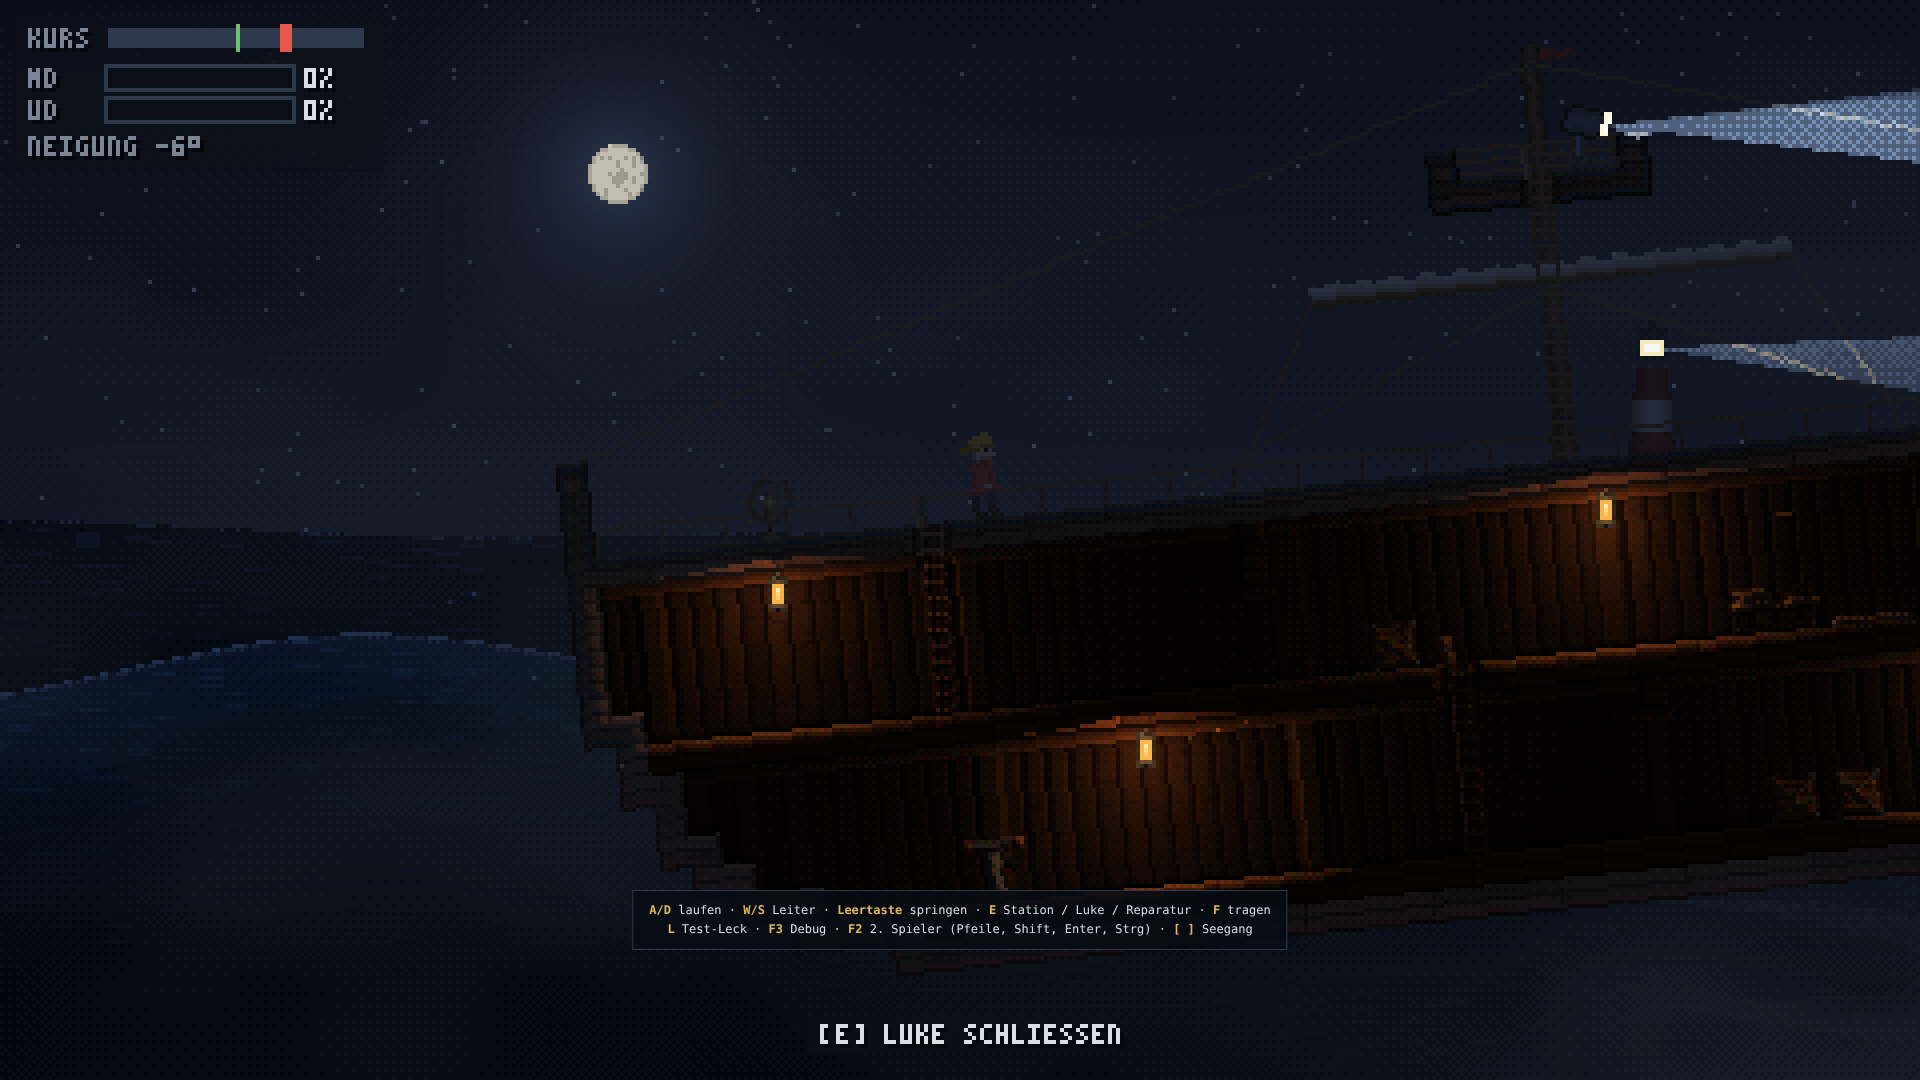
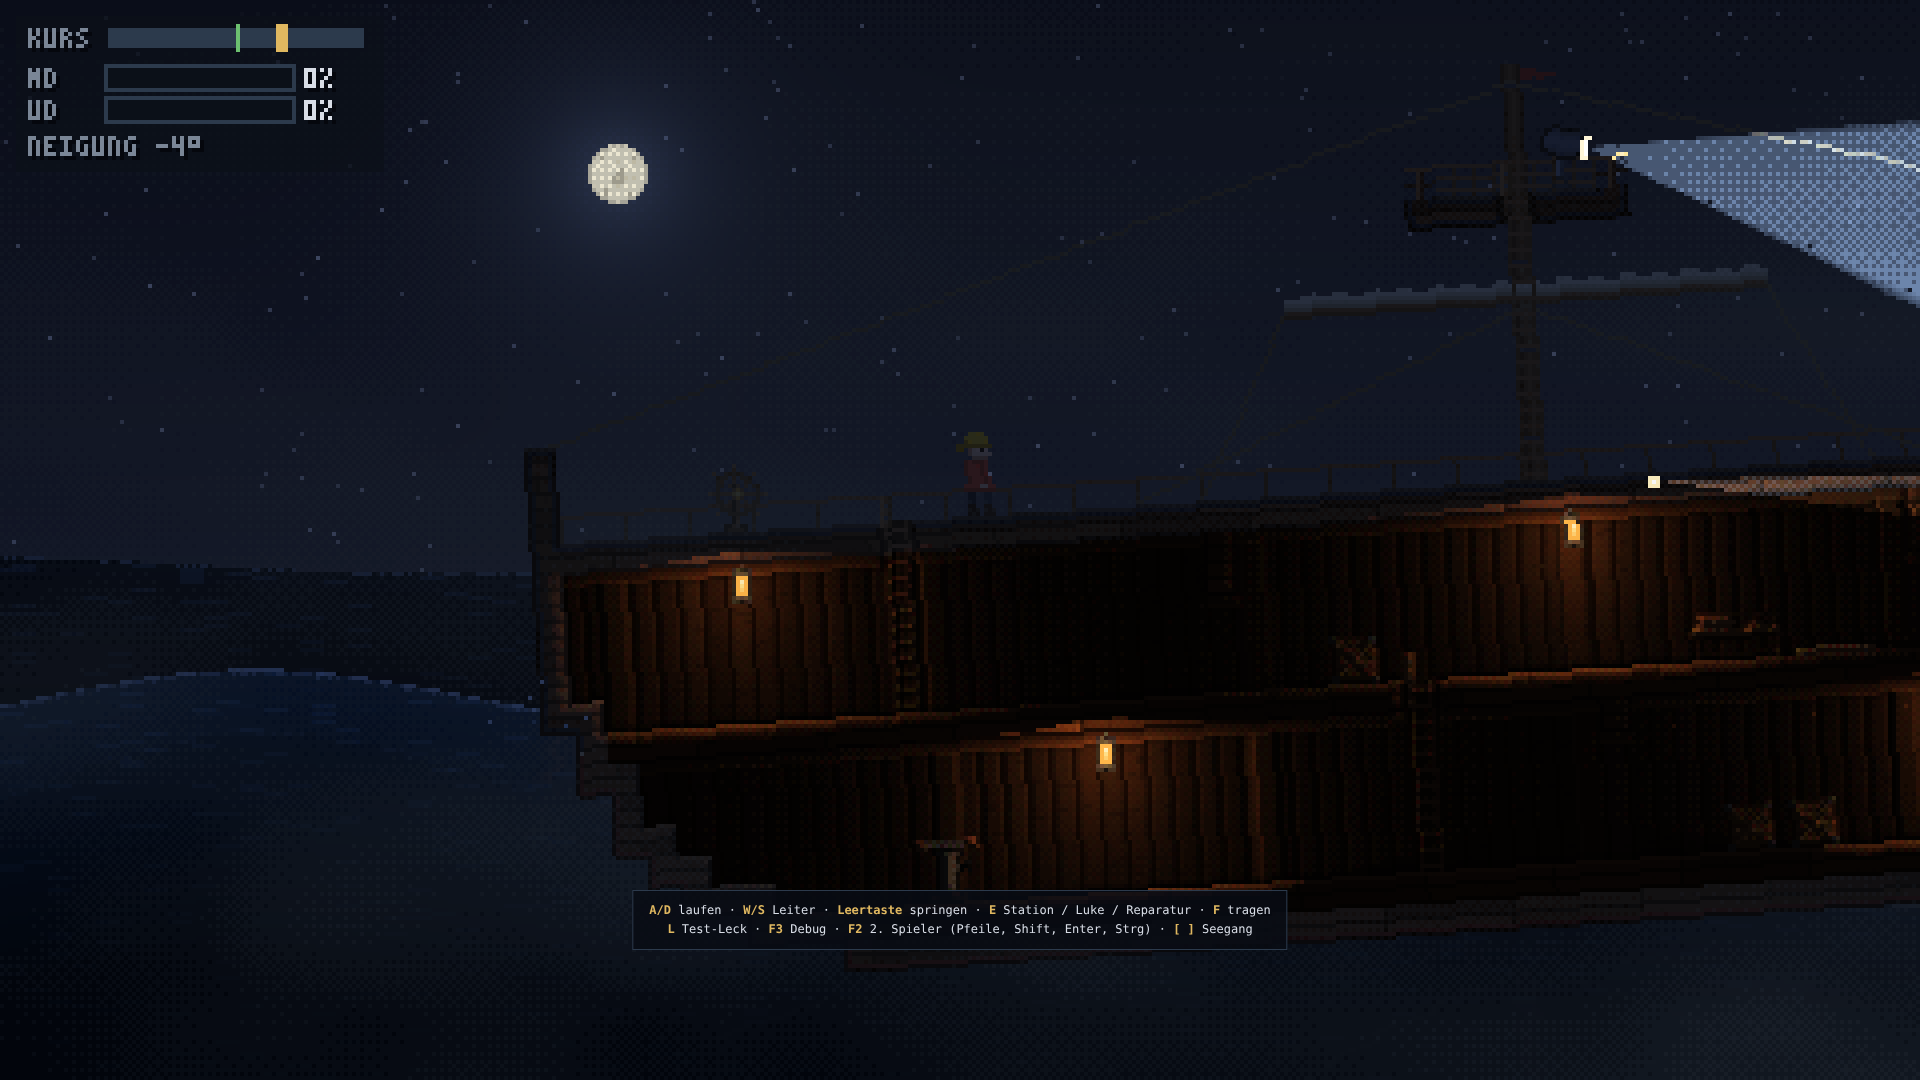
Railing tiles, leak jet and bubbles, buffer debug view, browser verification
- '|' railing tiles collide but do not occlude light (crow's nest posts
  no longer swallow the searchlight beam)
- leak water squirts in as a jet (or bubbles when submerged), unlit water
  surface glint keeps flooding readable in dark holds
- F7 cycles albedo / normal / light / mask buffer views
- scripts/verify-browser.mjs: scenes, buffer views, touch on an iPad
  viewport, FPS per quality level, WebKit when installed
- client unit tests for visibility polygons, pixel layout, input latching

Claude-Session: https://claude.ai/code/session_012Hak5DpWGinFi5foozbzFZ

diff --git a/client/src/render/ShipView.ts b/client/src/render/ShipView.ts
@@ -180,8 +180,8 @@ export class ShipView {
       y: 0,
       color: [0.82, 0.92, 1.0],
       intensity: 2.6,
-      radius: 470,
-      height: 40,
+      radius: 480,
+      height: 110,
       cone: { direction: 0, half: 0.19, soft: 0.025 },
       scatter: 1.6,
       occluded: true,
@@ -456,16 +456,29 @@ export class ShipView {
       s.setFrame(frameOf(this.assets.props, name));
       if (leak.active && leak.inflow > 0) {
         // water jet + drips into the hull, in ship space with the apparent gravity
-        const n = Math.min(6, leak.inflow * 40 * dt * 10);
+        const n = Math.min(8, Math.round(leak.inflow * 140 * dt));
         const cx = ox + lp.tx * 8 + 4 + lp.inward.x * 3;
         const cy = oy + lp.ty * 8 + 4 + lp.inward.y * 3;
         const g = state.ship.gravity;
         const floorY = this.floorBelow(lp.tx + lp.inward.x, lp.ty + lp.inward.y, state);
-        for (let i = 0; i < n; i++) {
-          if (Math.random() > 0.7) continue;
-          const spd = 20 + leak.inflow * 90 * Math.random();
-          const spread = (Math.random() - 0.5) * 18;
-          this.leakParticles.spawn(cx, cy + (Math.random() - 0.5) * 4, lp.inward.x * spd + spread * Math.abs(lp.inward.y), lp.inward.y * spd + spread * Math.abs(lp.inward.x) - 10 * Math.random(), 0.5 + Math.random() * 0.6, Math.random() > 0.3 ? 0x9cc8e0 : 0xe0f0ff, g.x * PPM * 0.6, g.y * PPM * 0.6, 0.6, floorY);
+        if (floorY < cy) {
+          // the leak is under water: bubbles rise to the surface instead of a jet
+          if (Math.random() < leak.inflow * 30 * dt) {
+            for (let i = 0; i < 2; i++) {
+              this.leakParticles.spawn(cx + lp.inward.x * 2 + (Math.random() - 0.5) * 3, cy, lp.inward.x * 8 + (Math.random() - 0.5) * 6, -10, 3, 0xc8e8f4, -g.x * PPM * 0.05, -g.y * PPM * 0.12, 1.5, floorY + 1);
+            }
+          }
+          continue;
+        }
+        // pressurised jet: water squirts inwards and slightly upwards, then falls
+        for (let i = 0; i < n + 2; i++) {
+          const spd = 25 + leak.inflow * 110 * Math.random();
+          const up = 15 + Math.random() * 45;
+          const side = (Math.random() - 0.5) * 16;
+          const vx = lp.inward.x * spd + side * Math.abs(lp.inward.y);
+          const vy = lp.inward.y * spd + side * Math.abs(lp.inward.x) - up * Math.abs(lp.inward.x);
+          const color = Math.random() > 0.35 ? 0x9cc8e0 : 0xe8f6ff;
+          this.leakParticles.spawn(cx, cy + (Math.random() - 0.5) * 3, vx, vy, 0.6 + Math.random() * 0.7, color, g.x * PPM * 0.6, g.y * PPM * 0.6, 0.5, floorY);
         }
       }
     }

diff --git a/shared/src/layout/parseLayout.ts b/shared/src/layout/parseLayout.ts
@@ -106,6 +106,8 @@ export interface ShipLayout {
   origin: Vec2;
   tiles: Uint8Array;
   ladderMask: Uint8Array;
+  /** Solid tiles that are railings: they collide but do not occlude light. */
+  railMask: Uint8Array;
   /** Compartment id per tile, -1 if none. */
   compartmentOf: Int16Array;
   /** Merged solid rectangles (hatches excluded). */
@@ -146,6 +148,7 @@ export function parseLayout(map: readonly string[], options: ParseOptions): Ship
   const tileSize = options.tileSize ?? TILE_SIZE;
   const tiles = new Uint8Array(width * height);
   const ladderMask = new Uint8Array(width * height);
+  const railMask = new Uint8Array(width * height);
   const markers: MarkerDef[] = [];
   const idx = (x: number, y: number) => y * width + x;
   const charAt = (x: number, y: number) => map[y]?.[x] ?? ' ';
@@ -155,10 +158,11 @@ export function parseLayout(map: readonly string[], options: ParseOptions): Ship
     for (let x = 0; x < width; x++) {
       const c = charAt(x, y);
       const i = idx(x, y);
-      if (c === '#' || c === 'x') tiles[i] = TileKind.Solid;
+      if (c === '#' || c === 'x' || c === '|') tiles[i] = TileKind.Solid;
       else if (c === '=') tiles[i] = TileKind.Hatch;
       else tiles[i] = TileKind.Exterior; // refined by the flood fill below
       if (c === 'H') ladderMask[i] = 1;
+      if (c === '|') railMask[i] = 1;
       const marker = MARKERS[c];
       if (marker) markers.push({ type: marker, tx: x, ty: y });
     }
@@ -290,6 +294,7 @@ export function parseLayout(map: readonly string[], options: ParseOptions): Ship
 
   const isSolid = (x: number, y: number) =>
     x >= 0 && y >= 0 && x < width && y < height && tiles[idx(x, y)] === TileKind.Solid;
+  const isOccluder = (x: number, y: number) => isSolid(x, y) && !railMask[idx(x, y)];
 
   return {
     width,
@@ -298,9 +303,10 @@ export function parseLayout(map: readonly string[], options: ParseOptions): Ship
     origin: { x: options.origin.x, y: options.origin.y },
     tiles,
     ladderMask,
+    railMask,
     compartmentOf,
     solidRects: mergeSolidRects(width, height, isSolid),
-    occluders: buildOccluders(width, height, isSolid),
+    occluders: buildOccluders(width, height, isOccluder),
     ladders,
     hatches,
     compartments,

diff --git a/client/src/render/GameRenderer.ts b/client/src/render/GameRenderer.ts
@@ -79,6 +79,9 @@ export class GameRenderer {
   quality: Quality = 'high';
   /** Light buffer resolution relative to the internal resolution (1 or 0.5). */
   lightScale = 1;
+  /** Debug buffer view (F7): shows an intermediate buffer instead of the final image. */
+  debugView: 'final' | 'albedo' | 'normal' | 'light' | 'mask' = 'final';
+  private readonly debugSprite = new Sprite();
   /** Profiling switches: a disabled pass keeps its previous buffer content. */
   readonly passEnabled = { albedo: true, normal: true, mask: true, light: true, final: true, screen: true };
 
@@ -113,6 +116,7 @@ export class GameRenderer {
       }, 'composite'),
     );
     this.final.root.addChildAt(this.composite, 0);
+    this.final.root.addChild(this.debugSprite);
     this.final.root.addChild(this.hud);
 
     this.finalSprite = new Sprite(this.rt.final);
@@ -247,6 +251,15 @@ export class GameRenderer {
 
     const r = this.renderer;
     const on = this.passEnabled;
+    this.debugSprite.visible = this.debugView !== 'final';
+    this.composite.visible = !this.debugSprite.visible;
+    if (this.debugSprite.visible) {
+      const map = { albedo: this.rt.scene, normal: this.rt.normal, light: this.rt.light, mask: this.rt.mask } as const;
+      const tex = map[this.debugView as keyof typeof map];
+      this.debugSprite.texture = tex;
+      this.debugSprite.width = this.layout.width;
+      this.debugSprite.height = this.layout.height;
+    }
     if (on.albedo) r.render({ container: this.albedo.root, target: this.rt.scene, clear: true, clearColor: [0, 0, 0, 0] });
     if (on.normal) r.render({ container: this.normal.root, target: this.rt.normal, clear: true, clearColor: [0.5, 0.5, 1, 0] });
     if (on.mask) r.render({ container: this.mask.root, target: this.rt.mask, clear: true, clearColor: [0, 0, 0, 0] });

diff --git a/shared/test/layout.test.ts b/shared/test/layout.test.ts
@@ -69,6 +69,23 @@ describe('ship layout parser', () => {
     for (const v of count.values()) expect(v).toBeGreaterThanOrEqual(1);
   });
 
+  it('railings collide but do not occlude light', () => {
+    const rails: [number, number][] = [];
+    for (let i = 0; i < layout.railMask.length; i++) if (layout.railMask[i]) rails.push([i % layout.width, Math.floor(i / layout.width)]);
+    expect(rails.length).toBeGreaterThanOrEqual(2);
+    for (const [x, y] of rails) {
+      expect(layout.tiles[y * layout.width + x]).toBe(TileKind.Solid);
+      expect(layout.solidRects.some((r) => x >= r.x && x < r.x + r.w && y >= r.y && y < r.y + r.h)).toBe(true);
+      // no occluder on the rail's sides or top (its bottom touches the floor, whose top face is exposed)
+      const sideOrTop = layout.occluders.some((s) => {
+        const vertical = s.ax === s.bx && (s.ax === x || s.ax === x + 1) && Math.min(s.ay, s.by) < y + 1 && Math.max(s.ay, s.by) > y;
+        const top = s.ay === s.by && s.ay === y && Math.min(s.ax, s.bx) < x + 1 && Math.max(s.ax, s.bx) > x;
+        return vertical || top;
+      });
+      expect(sideOrTop).toBe(false);
+    }
+  });
+
   it('finds the leak points on the lower deck hull', () => {
     expect(layout.leakPoints).toHaveLength(2);
     for (const lp of layout.leakPoints) {

diff --git a/shared/src/layout/shipMap.ts b/shared/src/layout/shipMap.ts
@@ -7,6 +7,7 @@
  * Legend
  *   ' '  exterior air (outside the hull)        '.'  interior air
  *   '#'  solid (hull, deck, wall)               'H'  ladder
+ *   '|'  railing: solid for physics, but does not block light
  *   '='  hatch in a floor (with ladder below = one-way platform when open)
  *   'x'  solid hull tile with a possible leak    '@'  player spawn
  *   'w'  steering wheel   'p'  pump   's'  searchlight   'c'  cannon   'k'  workshop
@@ -16,7 +17,7 @@ export const SHIP_MAP: readonly string[] = [
   '                                                                        ',
   '                                                                        ',
   '                                                                        ',
-  '                               #    s#                                  ',
+  '                               |    s|                                  ',
   '                               ###=###                                  ',
   '                                  H                                     ',
   '                                  H                                     ',

diff --git a/shared/test/simulation.test.ts b/shared/test/simulation.test.ts
@@ -235,6 +235,24 @@ describe('leak, pump and repair', () => {
   });
 });
 
+describe('sinking', () => {
+  it('a flooded hull sinks the ship and the game restarts after a few seconds', async () => {
+    const sim = await Simulation.create({ seaState: 0 });
+    sim.addPlayer('a');
+    const { capacity } = sim.waterTotals();
+    sim.step({}, SIM_DT, [
+      { type: 'debugWater', compartment: 0, volume: capacity },
+      { type: 'debugWater', compartment: 1, volume: capacity },
+    ]);
+    sim.step({});
+    expect(sim.state.status).toBe('sunk');
+    run(sim, GAMEPLAY.sunkResetTime + 0.2);
+    expect(sim.state.status).toBe('sailing');
+    expect(sim.waterTotals().volume).toBe(0);
+    expect(sim.state.players.map((p) => p.id)).toEqual(['a']);
+  });
+});
+
 describe('determinism', () => {
   it('two simulations with identical inputs produce identical states', async () => {
     const a = await Simulation.create({ seaState: 1, seed: 7 });

diff --git a/scripts/assets/ship.ts b/scripts/assets/ship.ts
@@ -48,9 +48,23 @@ export function drawHull(layout: ShipLayout): Canvas {
     return max + 1;
   };
 
+  const railPx = (x: number, y: number) => {
+    const tx = Math.floor(x / T);
+    const ty = Math.floor(y / T);
+    return tx >= 0 && ty >= 0 && tx < layout.width && ty < layout.height && layout.railMask[ty * layout.width + tx] === 1;
+  };
   for (let y = 0; y < H; y++) {
     for (let x = 0; x < W; x++) {
       if (!solidPx(x, y)) continue;
+      if (railPx(x, y)) {
+        // railing post: 2 px wide post + 1 px top rail
+        const lx = x % T;
+        const ly = y % T;
+        if (ly === 0) c.set(x, y, WOOD_HI, 2.4);
+        else if (lx === 3 || lx === 4) c.set(x, y, lx === 3 ? WOOD_HI : WOOD[1]!, 2.2);
+        else if (ly === 4) c.set(x, y, WOOD[0]!, 1.6);
+        continue;
+      }
       const strake = Math.floor(y / 4);
       const off = Math.floor(hash(strake, 7) * 32);
       const plank = Math.floor((x + off) / 32);

diff --git a/client/index.html b/client/index.html
@@ -12,8 +12,9 @@
     <div id="game"></div>
     <div id="status">LEUCHTTURMWÄRTER · lädt …</div>
     <div id="help">
-      <b>A/D</b> laufen · <b>W/S</b> Leiter · <b>Leertaste</b> springen · <b>E</b> Station / Luke / Reparatur · <b>F</b> tragen<br />
-      <b>L</b> Test-Leck · <b>F3</b> Debug · <b>F2</b> 2. Spieler (Pfeile, Shift, Enter, Strg) · <b>[ ]</b> Seegang
+      <span class="help-keys"><b>A/D</b> laufen · <b>W/S</b> Leiter · <b>Leertaste</b> springen · <b>E</b> Station / Luke / Reparatur · <b>F</b> tragen<br />
+      <b>L</b> Test-Leck · <b>F3</b> Debug · <b>F2</b> 2. Spieler (Pfeile, Shift, Enter, Strg) · <b>[ ]</b> Seegang</span>
+      <span class="help-touch"><b>Stick</b> laufen / klettern · <b>⤒</b> springen · <b>E</b> Station / Luke / Reparatur · <b>F</b> tragen</span>
     </div>
     <script type="module" src="./src/main.ts"></script>
   </body>

diff --git a/client/src/render/Particles.ts b/client/src/render/Particles.ts
@@ -11,7 +11,10 @@ interface P {
   gx: number;
   gy: number;
   drag: number;
-  /** y (in the particle space) below which the particle dies (e.g. the water surface); NaN = never. */
+  /**
+   * Kill line in particle space: falling particles (gy >= 0) die below it (floor / water
+   * surface), rising particles (gy < 0, bubbles) die above it. NaN = never.
+   */
   floorY: number;
 }
 
@@ -62,7 +65,8 @@ export class Particles {
       p.vy *= d;
       p.x += p.vx * dt;
       p.y += p.vy * dt;
-      if (p.life <= 0 || p.y > p.floorY) {
+      const crossed = p.gy >= 0 ? p.y > p.floorY : p.y < p.floorY;
+      if (p.life <= 0 || crossed) {
         this.container.removeParticle(p.sprite);
         this.alive.splice(i, 1);
         this.pool.push(p);

diff --git a/client/src/ui/DebugOverlay.ts b/client/src/ui/DebugOverlay.ts
@@ -118,7 +118,7 @@ export class DebugOverlay {
       ``,
       ...state.players.map((pp) => `${pp.id} ${pp.anim.padEnd(7)} (${pp.x.toFixed(2)}, ${pp.y.toFixed(2)}) v(${pp.vx.toFixed(1)}, ${pp.vy.toFixed(1)}) ${pp.grounded ? 'G' : '-'}${pp.climbing !== null ? 'L' : ''} water ${pp.inWater.toFixed(2)}`),
       ``,
-      `F3 debug  L leak  [ ] sea state  F4 fix roll  F6 fog  F2 2 players  F8 reset`,
+      `F3 debug  F7 buffer view (${this.r.debugView})  L leak  [ ] sea  F4 fix roll  F6 fog  F2 2 players  F8 reset`,
     ];
     this.panel.textContent = lines.join('\n');
   }

diff --git a/client/src/ui/PixelFont.ts b/client/src/ui/PixelFont.ts
@@ -56,7 +56,7 @@ const GLYPHS: Record<string, readonly string[]> = {
   '=': ['...', '###', '...', '###', '...'],
   '_': ['...', '...', '...', '...', '###'],
   'Ä': ['#.#', '.#.', '#.#', '###', '#.#'],
-  'Ö': ['#.#', '.#.', '#.#', '#.#', '.#.'],
+  'Ö': ['#.#', '...', '###', '#.#', '###'],
   'Ü': ['#.#', '...', '#.#', '#.#', '###'],
   '#': ['#.#', '###', '#.#', '###', '#.#'],
   '[': ['##.', '#..', '#..', '#..', '##.'],

diff --git a/client/src/render/shaders.ts b/client/src/render/shaders.ts
@@ -239,7 +239,7 @@ void main() {
     vec3 fogLit = uFogColor * (0.55 + light.a * uFog.y);
     col = mix(col, fogLit, density);
     // thin air scattering so beams are visible even between fog banks
-    col += vec3(0.62, 0.70, 0.78) * light.a * 0.10 * (1.0 - mask.g);
+    col += vec3(0.62, 0.70, 0.78) * light.a * 0.075 * (1.0 - mask.g);
   }
   finalColor = vec4(col, 1.0);
 }`;
